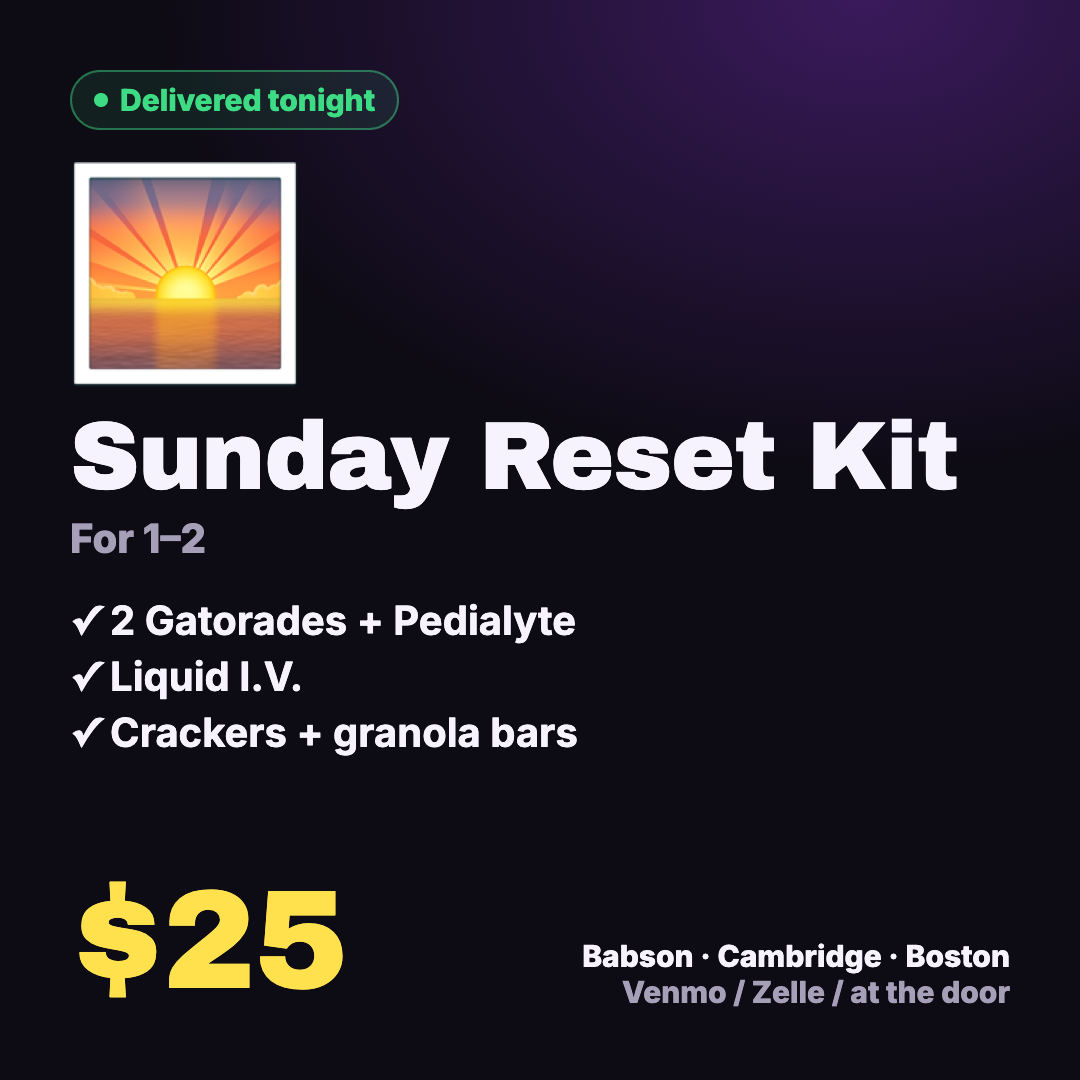
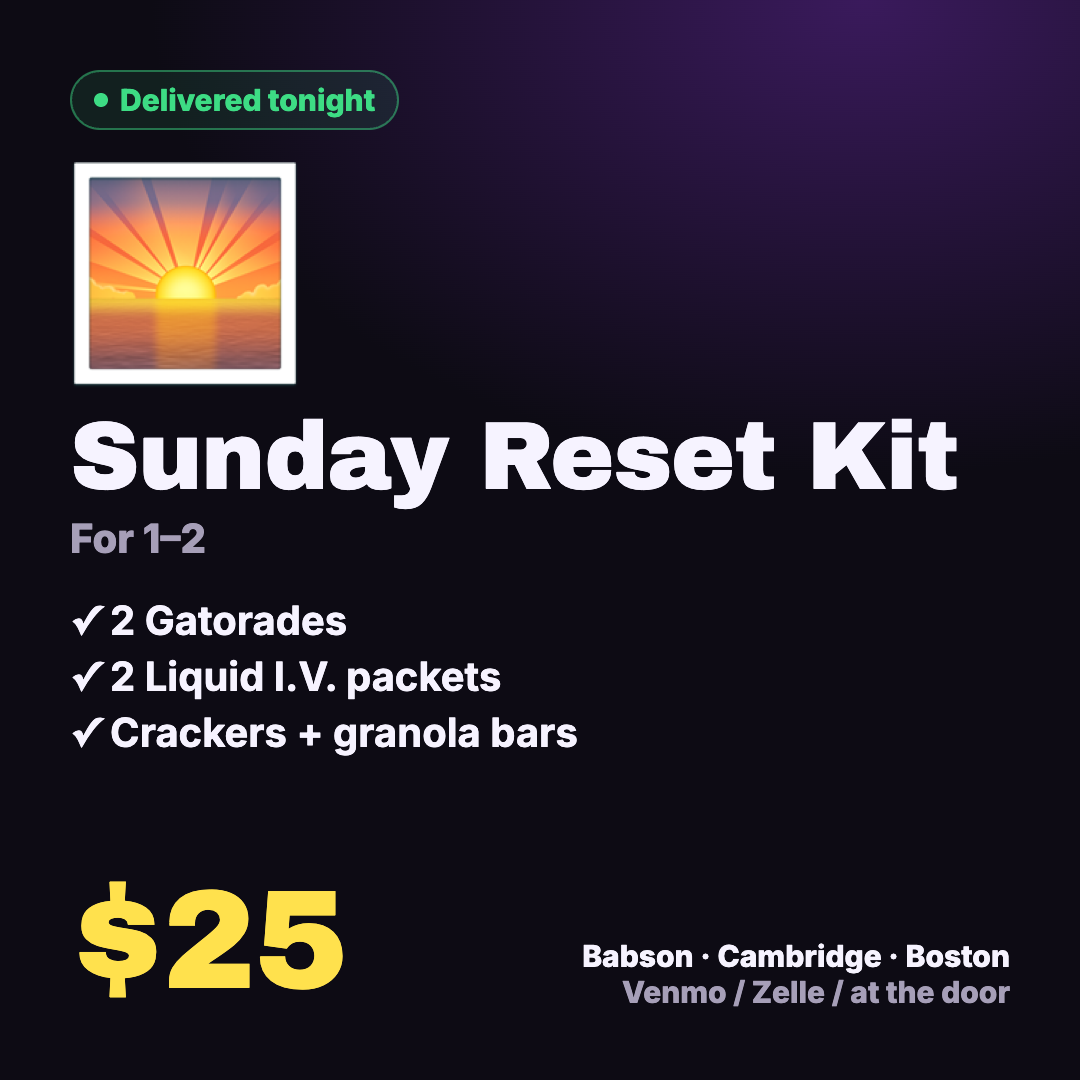
Box contents match CVS sale prices

Changed region(s): [[0.0917, 0.55, 0.55, 0.6417]]

diff --git a/index.html b/index.html
@@ -144,10 +144,10 @@ h2{font-family:"Archivo Black",sans-serif;font-size:26px;margin:34px 0 4px}
       <div class="emo">✨</div>
       <div>
         <p class="bname">Special request</p>
-        <div class="serves">Need something else? Chargers, ice, a birthday card, toothbrush, more cups… anything from CVS.</div>
+        <div class="serves">Need something else? Chargers, a birthday card, toothbrush, more cups… anything from CVS.</div>
       </div>
     </div>
-    <textarea id="custom" placeholder="e.g. 2 bags of ice, a phone charger (USB-C), 3 Celsius, birthday candles"></textarea>
+    <textarea id="custom" placeholder="e.g. more cups, a phone charger (USB-C), 3 Celsius, birthday candles"></textarea>
     <div class="note">Shelf price + $10 delivery. Ryan texts you the exact total before buying. No alcohol or tobacco.</div>
   </div>
 
@@ -225,15 +225,15 @@ const VENMO = "ryrycd";
 const ZELLE = "ryrycdryrycd@gmail.com";
 const BOXES = [
   {id:"pregame", emo:"🎉", name:"Pregame Box", serves:"Feeds 6–8", price:45, tag:"Most popular", tagc:"y",
-   items:["2 family-size chips","Salsa or dip","3 two-liter mixers","50 party cups","Napkins"]},
+   items:["2 big bags of chips","Salsa","4 bottles of mixers","50 party cups","Napkins"]},
   {id:"whole", emo:"🪩", name:"The Whole Party", serves:"Feeds 15–20", price:89, tag:"Best value",
-   items:["5 family-size chips + dip","6 two-liter mixers","2 candy share bags","100 party cups","Plates + napkins"]},
+   items:["5 big bags of chips + salsa","8 bottles of mixers","2 candy share bags","100 party cups","Plates + napkins"]},
   {id:"munchies", emo:"🍿", name:"Late-Night Munchies", serves:"For 3–4", price:29,
-   items:["2 bags of chips","Oreos","2 candy share bags","4 drinks"]},
+   items:["2 bags of chips","Oreos","Candy share bag","2 sodas"]},
   {id:"energy", emo:"⚡", name:"All-Nighter Box", serves:"For 2–3", price:39,
    items:["6 Celsius or Red Bull","Protein bars","Trail mix","Gum"]},
   {id:"reset", emo:"🌅", name:"Sunday Reset Kit", serves:"For 1–2", price:25,
-   items:["2 Gatorades","Liquid I.V.","Pedialyte","Crackers + granola bars"]}
+   items:["2 Gatorades","2 Liquid I.V. packets","Crackers + granola bars"]}
 ];
 /* ====================== */
 
